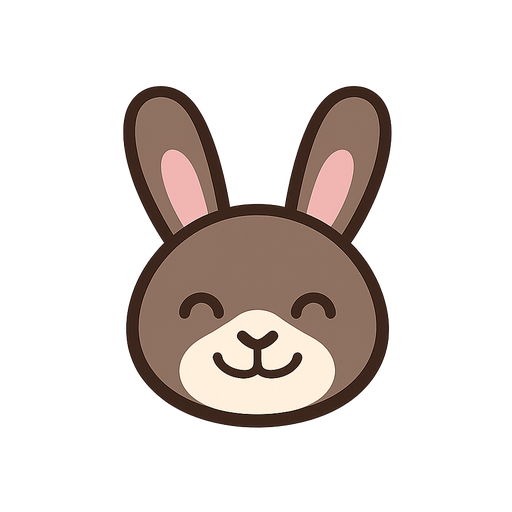
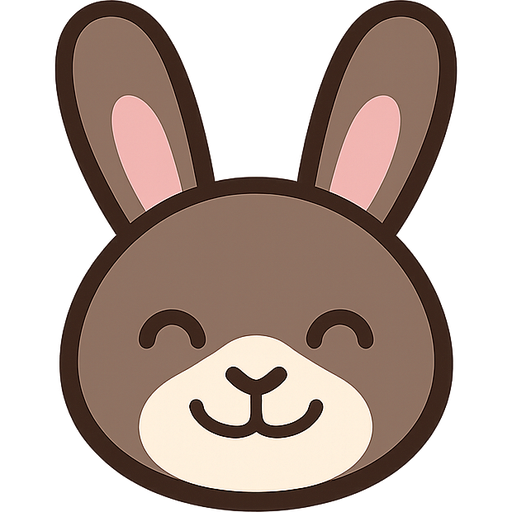
fix(tier): Zuschnitt auf das SICHTBARE Motiv - die Avatare waren zu klein
Nutzer-Meldung 2026-08-06 zu P6: "einige Avatare sind extrem klein, Vogel
ist normal gut, aber alle anderen sind super klein". Nachgemessen und
bestaetigt - und der Vogel war der Beweis, nicht die Ausnahme.

Ursache: der Zuschnitt lief auf Alpha > 0. Die Originale tragen aber fast
unsichtbare Pixel bis an den Bildrand, also schnitt er praktisch nichts weg,
und das Motiv sass klein in der Mitte eines fast leeren Quadrats. Gemessen
fuellt das echte Motiv nur 34 bis 60 Prozent der Bildkante - beim Hamster 34,
beim Vogel 54. Genau der Vogel hatte den engsten Rahmen und war deshalb der
einzige, der richtig aussah.

Behoben mit einer Schwelle: Alpha > 8 statt > 0. Ab 8 aendert sich die
gemessene Kante nicht mehr (geprueft bis 128), es geht also nichts Echtes
verloren - der Zuschnitt trifft jetzt das Motiv und nicht den Hauch drumherum.

Neu erzeugt sind beide Fassungen aus denselben Originalen: die eingecheckten
Quellbilder (designsprache/tier-<art>.png, 512px) und die eingebettete
Fassung. Die Zahlen steigen, und das ist richtig so - es ist mehr echtes
Motiv pro Pixel statt Leerraum:
 - Daten-URIs 17 -> 29 KB (die Freigabe lag bei 42 KB, also weiter darunter)
 - Runtime-Buendel 156 -> 169 KB
 - Quellbilder 0,75 -> 3,0 MB
Die "Ersparnis" vorher war schlicht das viele Nichts um die Motive herum.

Das Rezept im Kopf von tierBilder.ts nennt jetzt die Schwelle samt Grund und
den Messwert je Tier - wer die Bilder erneuert, tappt sonst in dieselbe Falle.
[…]

diff --git a/src/blocks/shared/tierBilder.ts b/src/blocks/shared/tierBilder.ts
@@ -4,36 +4,48 @@
 // eingecheckt in designsprache/ als tier-<art>.png (512px) — SEINE Zeichen,
 // nicht die Silhouetten der Demo (Nutzer-Ansage 2026-08-06).
 //
-// Rezept, je Bild aus dem ORIGINAL (nicht aus der 512px-Fassung — zweimal
-// skalieren verdoppelt die Dateigroesse, gemessen 80 statt 42 KB):
-//   1. auf das Motiv beschneiden (Alpha-Rahmen weg)
+// Rezept, je Bild aus dem ORIGINAL (nicht aus der eingecheckten 512px-Fassung
+// — zweimal skalieren verdoppelt die Dateigroesse, gemessen 80 statt 42 KB):
+//   1. auf das SICHTBARE Motiv beschneiden: Alpha > 8, nicht Alpha > 0.
+//      Die Originale tragen fast unsichtbare Pixel bis an den Bildrand. Ein
+//      Zuschnitt auf Alpha > 0 schnitt darum praktisch nichts weg, und das
+//      Motiv sass klein in der Mitte eines fast leeren Quadrats — Nutzer-
+//      Meldung 2026-08-06: "einige Avatare sind extrem klein". Gemessen
+//      fuellt das echte Motiv nur 34 bis 60 Prozent der Bildkante: beim
+//      Hamster 34, beim Vogel 54 — und genau der Vogel war der einzige, der
+//      richtig aussah. Ab Schwelle 8 aendert sich die gemessene Kante nicht
+//      mehr (geprueft bis 128), es geht also nichts Echtes verloren.
 //   2. quadratisch auffuellen, transparent — das Seitenverhaeltnis bleibt
 //   3. auf 72px skalieren (LANCZOS)
 //   4. auf 128 Farben bringen (Octree), PNG mit optimize, dann base64
 //
-// Die zwei Zahlen sind gemessen, nicht geschaetzt:
-//   72px = doppelte Aufloesung des Standard-Avatars (36px), Nutzer-
-//     Entscheidung 2026-08-06 — scharf auch auf feinen Bildschirmen.
-//   128 Farben = 16 KB statt 42 KB bei voller Farbtiefe, ohne sichtbaren
-//     Unterschied (flache Illustrationen mit wenigen Volltoenen; bei 64
-//     Farben werden die Kanten hart, darum nicht weiter herunter).
+// Die Zahlen sind gemessen, nicht geschaetzt:
+//   72px = doppelte Aufloesung des 30px-Avatars, Nutzer-Entscheidung
+//     2026-08-06 — scharf auch auf feinen Bildschirmen.
+//   128 Farben statt voller Farbtiefe spart rund die Haelfte, ohne sichtbaren
+//     Unterschied (flache Illustrationen mit wenigen Volltoenen). Bei 64
+//     Farben werden die Kanten hart, darum nicht weiter herunter.
+//   Alle zehn zusammen: 29 KB. Mit dem falschen Zuschnitt waren es 17 KB —
+//     die vermeintliche Ersparnis war schlicht das viele Nichts um die
+//     Motive herum.
 //
 // Eingebettet statt als Datei geladen, weil eine SoftEngine-Maske EINE Datei
-// ist: ein Verweis auf bilder/hund.png zeigte dort nichts.
+// ist: ein Verweis auf eine Bilddatei zeigte dort nichts.
 //
 // Die Bilder bringen ihre FARBEN selbst mit. Die frueheren Silhouetten waren
-// einfarbig (fill=currentColor) und liessen sich toenen — das geht jetzt nicht
-// mehr und ist der bewusste Preis dafuer, dass es die Bilder des Nutzers sind.
+// einfarbig (fill=currentColor) und liessen sich toenen — das geht jetzt
+// nicht mehr und ist der bewusste Preis dafuer, dass es die Bilder des
+// Nutzers sind.
 
 export const TIER_BILDER: Readonly<Record<string, string>> = {
[20 lines of base64/hex data omitted]
 }
